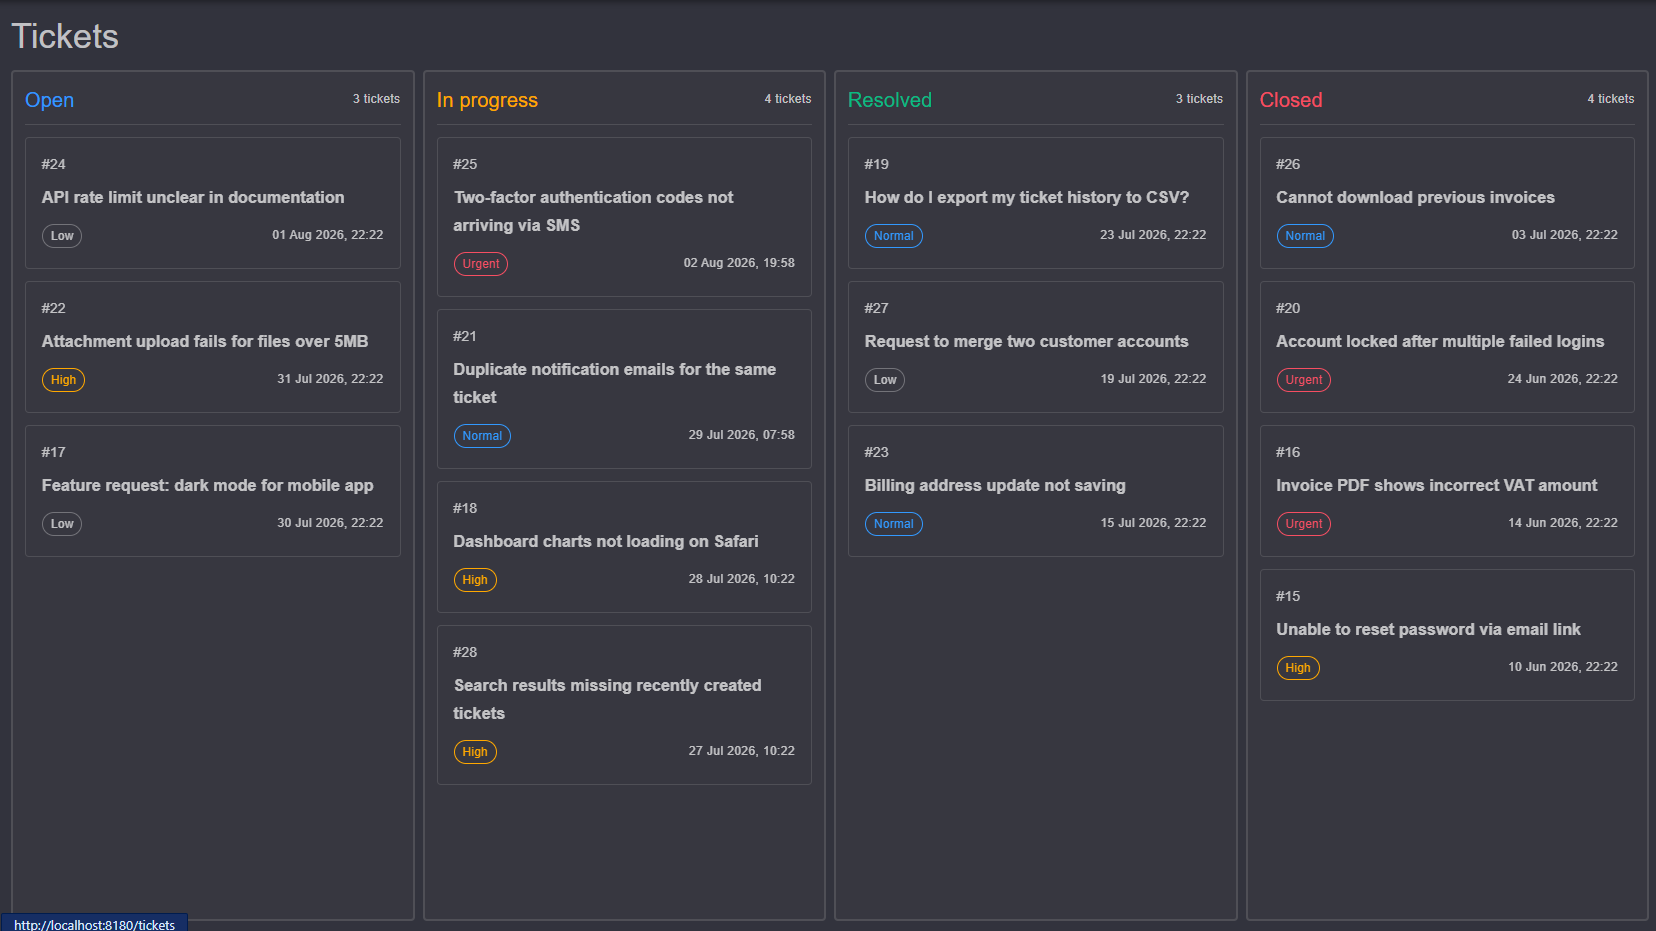
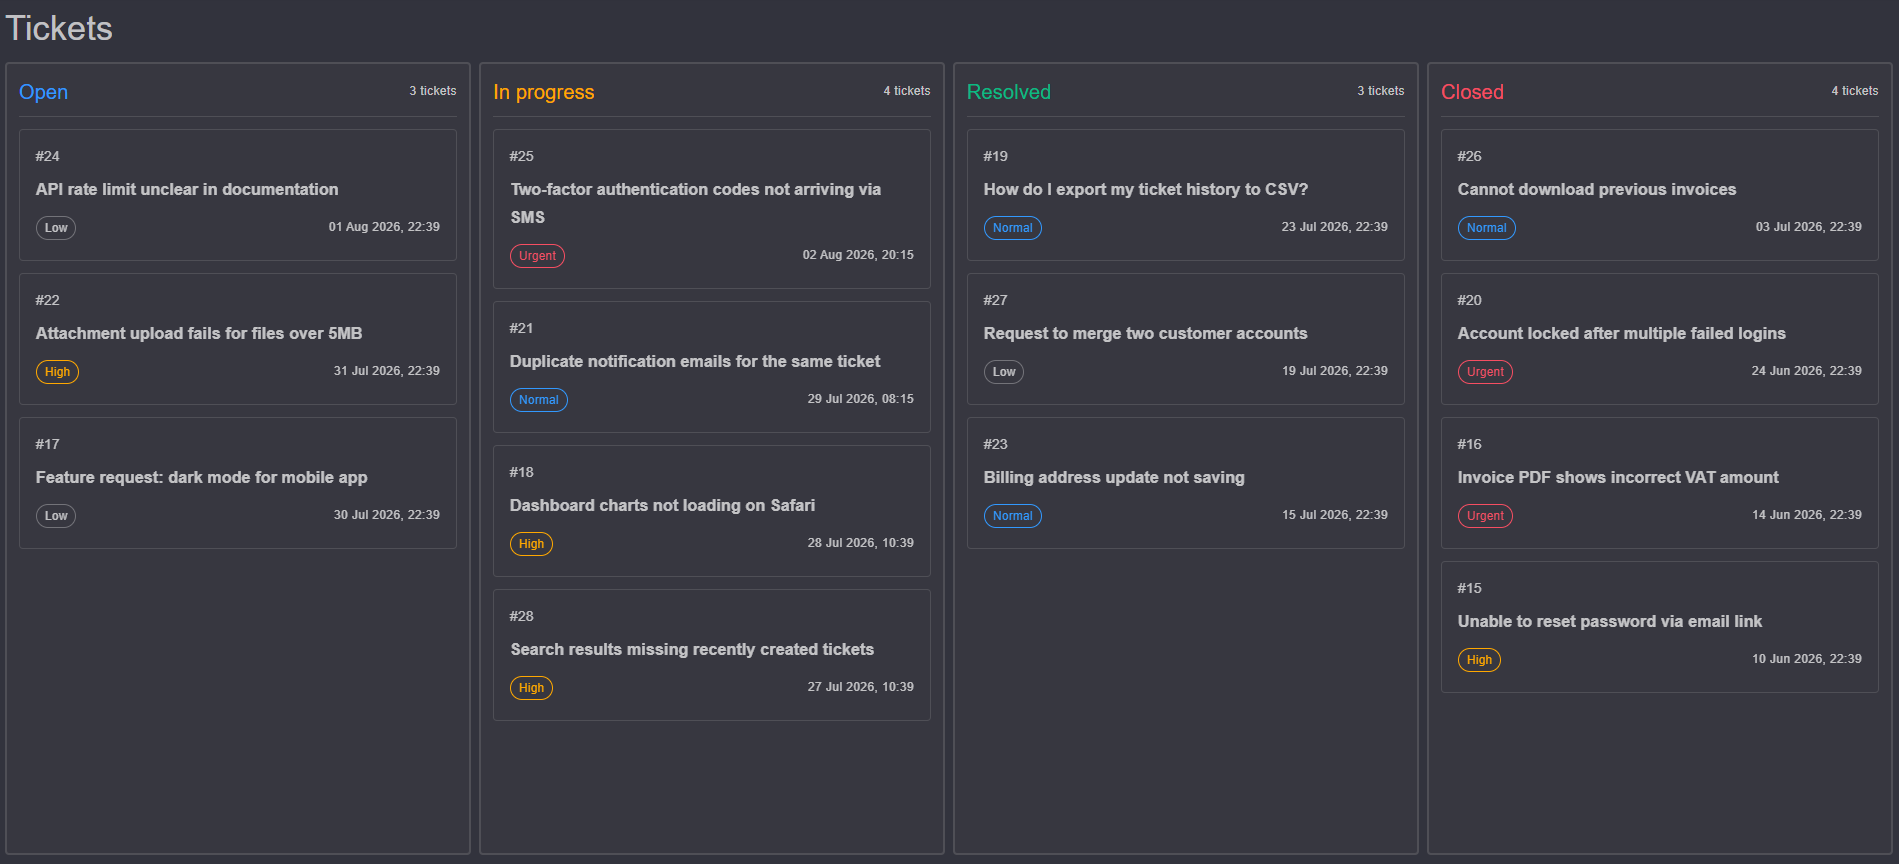
Updated README.md

diff --git a/README.md b/README.md
@@ -1,6 +1,73 @@
 # Ticket System
 
-This repository contains a ticket system with PostgreSQL persistence, a Blazor Web application, an HTTP API, and a standalone SignalR host. The database schema is managed by ordered application migrations. PostgreSQL table and column identifiers use quoted PascalCase names that match their C# counterparts.
+A full-stack support ticket platform: a kanban-style ticket board, live per-ticket chat with file attachments, a knowledge base, and an analytics dashboard — built with Blazor Server, ASP.NET Core, PostgreSQL, and SignalR.
+
+## Screenshots
+
+**Dashboard** — status/priority breakdown, first-response-time trend, and a live recent-activity feed.
+
+![Dashboard](screenshots/dashboard.png)
+
+**Ticket board** — drag-and-drop kanban view grouped by status, with priority and age at a glance.
+
+![Ticket board](screenshots/tickets-list.png)
+
+**Ticket detail** — details, live chat, and attachments in one dialog.
+
+![Ticket dialog](screenshots/ticket-dialog.png)
+
+## Features
+
+- **Kanban ticket board** with drag-and-drop status changes, filtered by priority
+- **Live chat per ticket** over SignalR, with file attachments and a full media library per conversation
+- **Analytics dashboard** — ticket status/priority breakdown, first-response-time trend, recent activity feed, configurable date range
+- **Knowledge base** with draft / published / archived article workflow
+- **Role-based access** — Administrator, Operator, and Customer, each scoped to what they need
+- **Dark mode**
+
+## Tech stack
+
+- **Web**: Blazor Server (.NET 8) with MudBlazor
+- **API**: ASP.NET Core minimal APIs
+- **Realtime**: standalone JWT-secured SignalR host
+- **Database**: PostgreSQL, with hand-written ordered SQL migrations (no ORM)
+
+## Getting started
+
+Run the full stack with Docker:
+
+```powershell
+Copy-Item deploy/.env.example deploy/.env
+docker compose --env-file deploy/.env -f deploy/compose.yaml up -d --build
+```
+
+Open `http://localhost:8180` and sign in with one of the seed accounts:
+
+| Role | Email | Password |
+| --- | --- | --- |
+| Administrator | `admin@ticketsystem.local` | `ChangeMe123!` |
+| Operator | `operator@ticketsystem.local` | `ChangeMe123!` |
+| Customer | `customer@ticketsystem.local` | `ChangeMe123!` |
+
+Change or remove these before any public deployment. To populate the board with realistic demo tickets like the screenshots above, run [`test-data.sql`](test-data.sql) against the database afterward.
+
+See [`deploy/README.md`](deploy/README.md) for the full Docker reference: environment variables, Web hot reload, individual service rebuilds, and resetting the database.
+
+### Visual Studio
+
+Open `TicketSystem.sln` in Visual Studio 2022 and select the `TicketSystem Web + Realtime` launch profile. Starting that profile launches both projects:
+
+- `TicketSystem.Web` on `https://localhost:7097` and `http://localhost:5047`.
+- `TicketSystem.Realtime` on `https://localhost:7197` and `http://localhost:5057`.
+
+The SignalR hub URLs are:
+
+```text
+https://localhost:7197/hubs/chat
+https://localhost:7197/hubs/tickets
+https://localhost:7197/hubs/app-users
+https://localhost:7197/hubs/knowledge
+```
 
 ## Files
 
@@ -8,6 +75,7 @@ This repository contains a ticket system with PostgreSQL persistence, a Blazor W
 - `src/TicketSystem.Api` - ASP.NET Core HTTP API that applies pending database migrations during startup.
 - `src/TicketSystem.DAL/Database/DatabaseMigrations.cs` - ordered PostgreSQL schema migrations.
 - `schema.sql` - standalone mirror of the current schema after all migrations for creating or inspecting an empty database.
+- `test-data.sql` - optional showcase seed data (demo tickets, chat history, knowledge articles).
 - `src/TicketSystem.Shared` - DTOs and enums shared by the API and Web projects.
 - `global.json` - pins the local SDK to .NET 8 for Visual Studio 2022 compatibility.
 - `src/TicketSystem.Web` - Blazor Web App project configured for MudBlazor and server interactivity.
@@ -27,26 +95,6 @@ Current setup:
 - `TicketSystem.Realtime` owns the authenticated AppUser, Chat, Knowledge, and Ticket SignalR hubs.
 - `TicketSystem.Api` persists changes and publishes ID-only notifications to Realtime through a protected internal endpoint.
 - Connected Web pages receive the notification and fetch authorized data through the API.
-
-## Visual Studio Launch
-
-Open `TicketSystem.sln` in Visual Studio 2022 and select the `TicketSystem Web + Realtime` launch profile. Starting that profile launches both projects:
-
-- `TicketSystem.Web` on `https://localhost:7097` and `http://localhost:5047`.
-- `TicketSystem.Realtime` on `https://localhost:7197` and `http://localhost:5057`.
-
-The SignalR hub URLs are:
-
-```text
-https://localhost:7197/hubs/chat
-https://localhost:7197/hubs/tickets
-https://localhost:7197/hubs/app-users
-https://localhost:7197/hubs/knowledge
-```
-
-## Docker
-
-See [`deploy/README.md`](deploy/README.md) for every Docker environment setting and command, including complete stack startup, individual service rebuilds, database reset, and automatic Web reload with `dotnet watch`.
 
 ## Data Model
 
@@ -101,6 +149,15 @@ The `Ticket` table represents a concrete support request.
 
 In the simple flow, one ticket has one chat session. If multiple conversations are needed for the same ticket later, the relationship can be adjusted so that `ChatSession` contains a `TicketId` reference.
 
+### TicketStatusHistory
+
+The `TicketStatusHistory` table records every status transition a ticket goes through, driving the dashboard's recent-activity feed.
+
+- `TicketId` references the ticket that changed and references `Ticket.Id`.
+- `OldStatusId` and `NewStatusId` reference `TicketStatus.Id`.
+- `ChangedByUserId` identifies who made the change and references `AppUser.Id`.
+- `ChangedAt` stores when the change happened.
+
 ### Message
 
 The `Message` table stores chat history.
@@ -120,6 +177,16 @@ The `MessageRead` table stores per-user read receipts.
 - `ReadAt` stores the read time.
 
 This is more flexible than a single read flag on `Message`, because the same conversation can be read by a customer, an operator, and an administrator.
+
+### MediaFile
+
+The `MediaFile` table stores file attachments shared in a chat session.
+
+- `ChatSessionId` identifies the conversation the file was shared in and references `ChatSession.Id`.
+- `UploadedByUserId` identifies who uploaded the file and references `AppUser.Id`.
+- `Name`, `Extension`, and `ContentType` describe the file.
+- `SizeBytes` and `Content` store the size and raw bytes; a size constraint caps attachments at 10 MB.
+- `CreatedAt` stores the upload time.
 
 ### Knowledge
 
